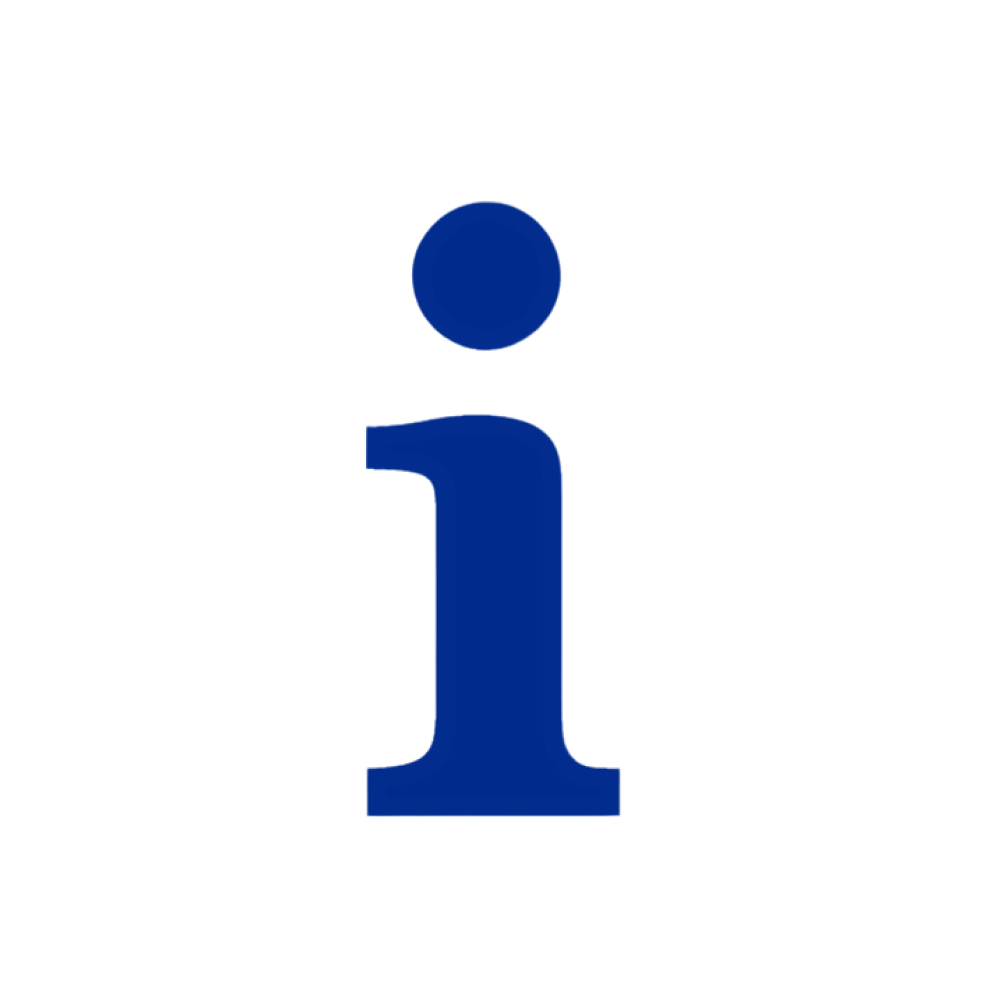
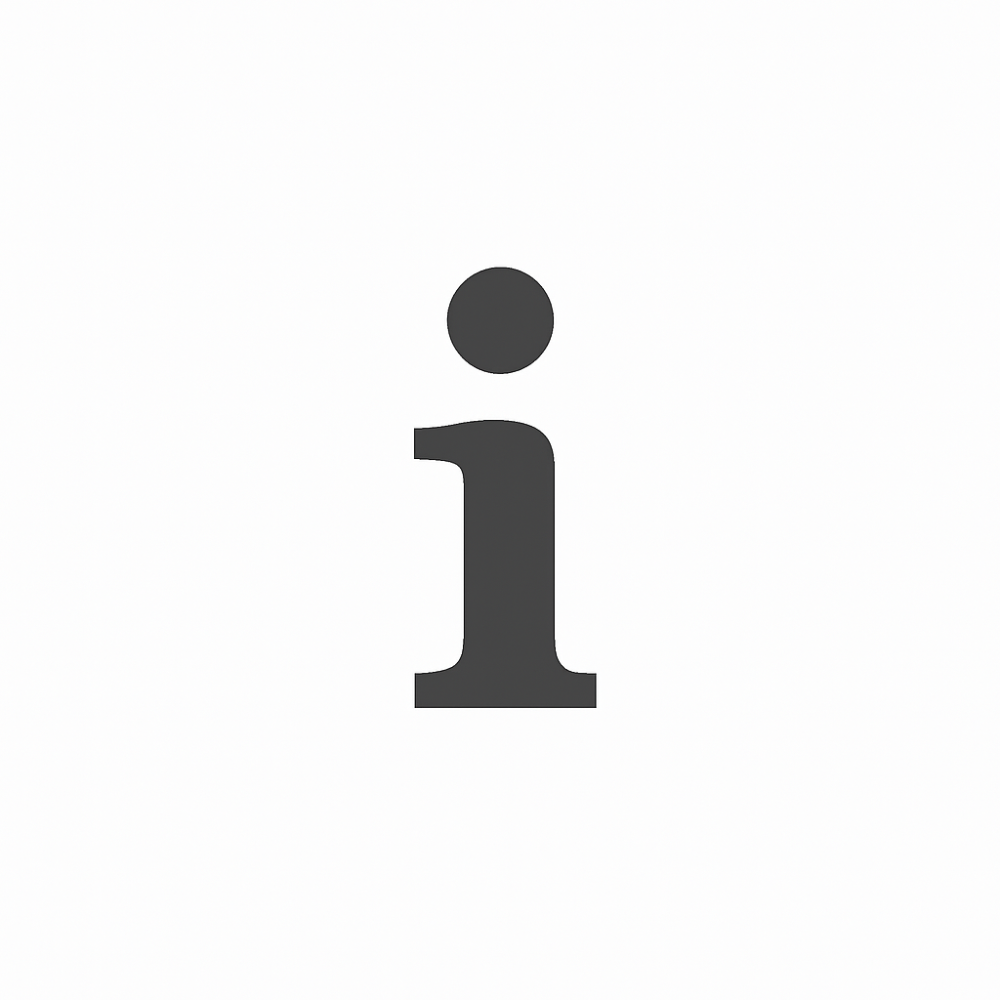
change whiteboard text

Changed region(s): [[0.341, 0.403, 0.62, 0.837], [0.403, 0.186, 0.558, 0.372]]

diff --git a/src/pages/Whiteboard/Whiteboard.jsx b/src/pages/Whiteboard/Whiteboard.jsx
@@ -979,46 +979,6 @@ export default function Whiteboard() {
   };
   /* -------------------- Image Upload -------------------- */
 
-  // const handleImageUpload = (files) => {
-  //   if (!files || files.length === 0) return;
-
-  //   Array.from(files).forEach((file) => {
-  //     setImageFiles((prev) => [...prev, file]);
-
-  //     const src = URL.createObjectURL(file);
-  //     const img = new Image();
-
-  //     img.onload = () => {
-  //       let { width, height } = img;
-  //       const maxSize = 200;
-
-  //       if (width > maxSize || height > maxSize) {
-  //         const scale = Math.min(maxSize / width, maxSize / height);
-  //         width *= scale;
-  //         height *= scale;
-  //       }
-  //       const pos = findNonOverlappingImagePosition(
-  //         width,
-  //         height,
-  //         uploadedImages
-  //       );
-  //       setUploadedImages((prev) => [
-  //         ...prev,
-  //         {
-  //           src,
-  //           x: pos.x,
-  //           y: pos.y,
-  //           width,
-  //           height,
-  //         },
-  //       ]);
-  //       if (src.startsWith("blob:")) {
-  //         return;
-  //       }
-  //     };
-  //     img.src = src;
-  //   });
-  // };
   const handleImageUpload = (files) => {
     if (!files || files.length === 0) return;
 
@@ -1264,12 +1224,12 @@ export default function Whiteboard() {
     const trans = {
       en: {
         name: "Whiteboard",
-        title: "Saved WhiteBoards List",
+        title: "Saved Whiteboards",
         // text: "View List"
       },
       sp: {
         name: "Pizarron",
-        title: "Lista de Pizarras Guardadas",
+        title: "Pizarras guardadas",
         // text: "Ver Lista"
       }
     }